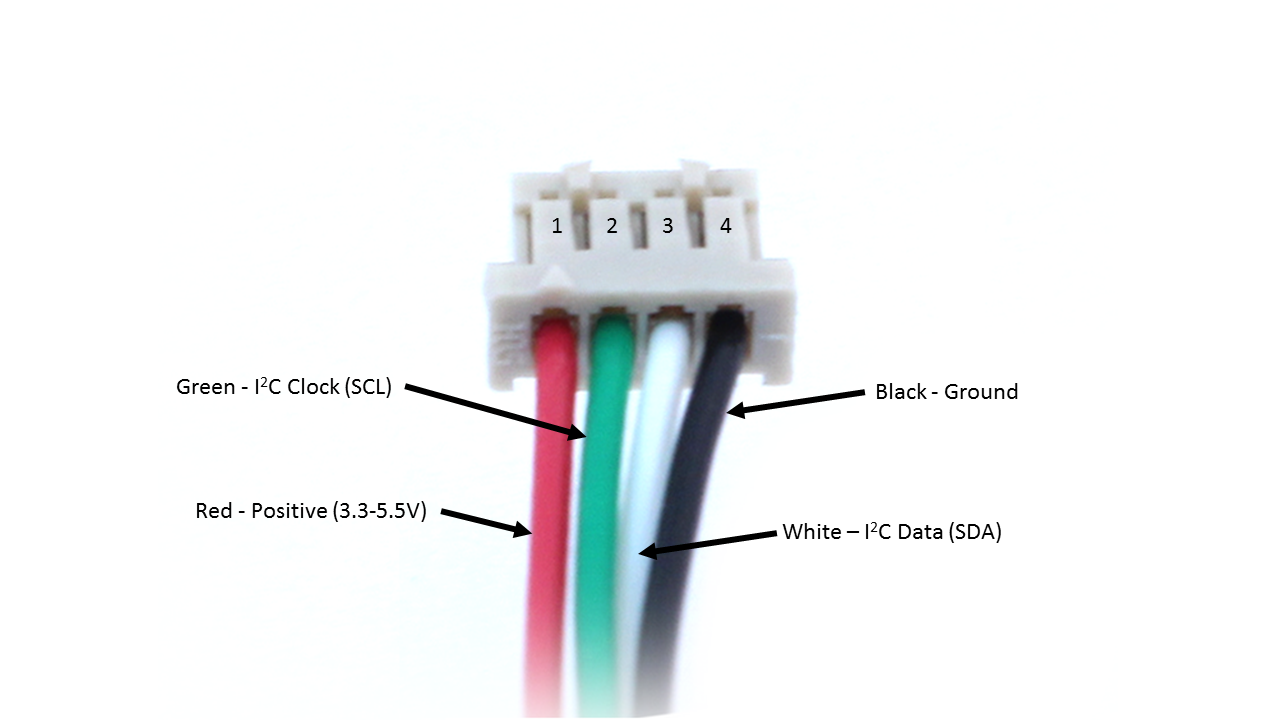
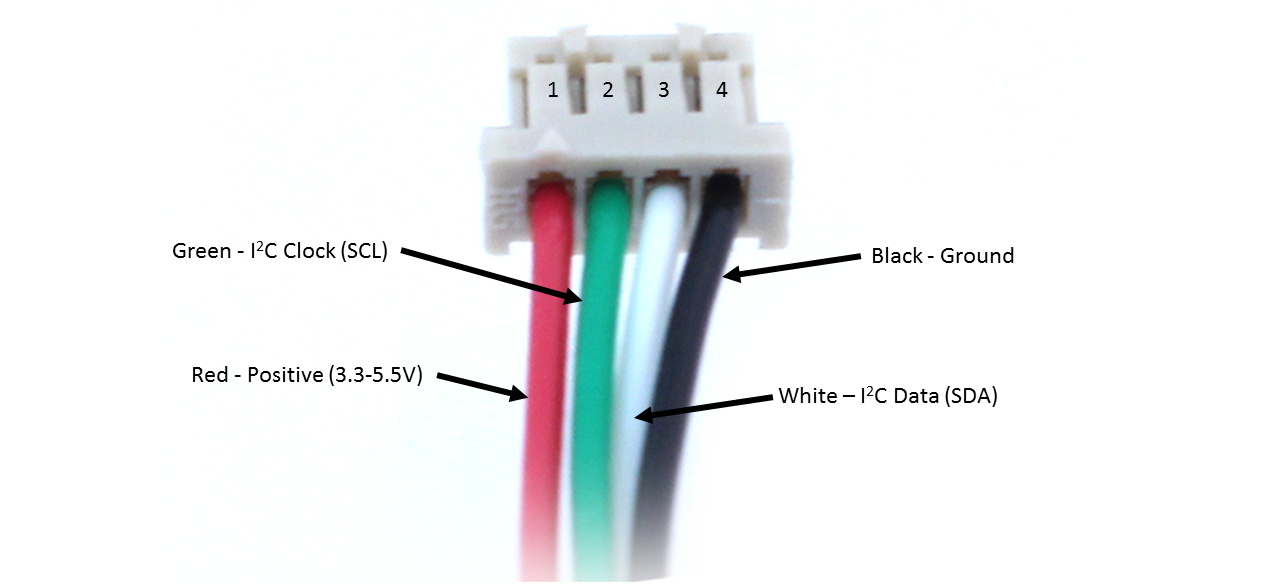
Celsius & Bar: Updates manuals before launch

Changed region(s): [[0.1223, 0.0308, 0.7947, 0.9555]]

diff --git a/bar30/index.md b/bar30/index.md
@@ -1,22 +1,22 @@
 ---
 layout: default
-title: Bar 30 Pressure Sensor Documentation
+title: Bar30 Pressure Sensor Documentation
 order: 1
 nav:
 - Introduction: introduction
 - - Quick Start: quick-start
 - Specifications: specifications
 - - Schematic: schematic
-- - 2D Drawing: d-drawing
 - - Specification Table: specification-table
 - - DF-13 Pinout: df-13-pinout
+- - 2D Drawing: d-drawing
 - - 3D Model: d-model
 - Installation: installation
 - Example Code: example-code
 - - Arduino: arduino
 
 store-links:
-- Bar30: #
+- Bar30: https://www.bluerobotics.com/store/electronics/bar30-sensor-r1/
 
 manual-links:
 - Celsius Temperature Sensor: /celsius
@@ -26,27 +26,27 @@ manual-links:
 
 #Introduction
 
-The Bar30 is a high resolution, water proof pressure and temperature sensor which comes in a Blue Robotics penetrator which provides a waterproof, high-pressure seal for your enclosure.
+The <em>Bar30</em> is a high resolution, water proof pressure and temperature sensor which comes in a Blue Robotics penetrator which provides a waterproof, high-pressure seal for your enclosure.
 
 ##Quick Start
 
 1. Download [MS5837 Arduino Library](https://github.com/bluerobotics/BlueRobotics_MS5837_Library).
 2. Install software such as the [Example Code](#example-code) to your microcontroller.
-3. Connect the DF13 or bare wires to the appropriate microcontroller pins [green-SCL, white-SDA, red-positive(2.5-5.5V), black ground]. That's it!
+3. Connect the DF13 or bare wires to the appropriate microcontroller pins, using a logic level converter if your board has 5V logic:
+  - Green: SCL (3.3V logic)
+  - White: SDA (3.3V logic)
+  - Red: +2.5-5.5V
+  - Black: Ground
 
 #Specifications
 
 ##Schematic
 
-The [EagleCAD files](https://github.com/bluerobotics/Bar30-Pressure-Sensor) for the schematic and board are available on our [GitHub page.](https://github.com/bluerobotics)
+The [EagleCAD files](https://github.com/bluerobotics/Bar30-Pressure-Sensor) for the schematic and board are available on our [GitHub page](https://github.com/bluerobotics).
 
-[<img src="/bar30/cad/BAR30-SENSOR-Schematic.png" class="img-responsive" style="max-width:300px" />](/assets/images/BAR30 Schematic.png)
+[<img src="/bar30/cad/BAR30-SENSOR-Schematic.png" class="img-responsive" style="max-width:300px" />](/bar30/cad/BAR30-SENSOR-Schematic.png)
 
 [Bar30 Schematic.png](/bar30/cad/BAR30-SENSOR-Schematic.png)
-
-##2D Drawing
-
-<img src="/assets/images/BAR30-2view.png" class="img-responsive" style="max-width:900px" />
 
 ##Specification Table
 
@@ -56,6 +56,7 @@ For further information please see the [MS5837-30BA Data Sheet.](http://meas-spe
 | ------------- | --------- |
 | **Item** | **Condition** | **Value** |
 | Supply Voltage| -- | 2.5-5.5 volts |
+| I<sup>2</sup>C Logic Voltage (SDA and SCL) | -- | 2.5 - 3.6 volts |
 | Peak Current   | -- | 1.25 mA   |
 | ------------- | --------- |
 |                **Pressure**                  		 |
@@ -78,8 +79,8 @@ For further information please see the [MS5837-30BA Data Sheet.](http://meas-spe
 |Absolute Accuracy   | From 0-10 bar at 0-60&deg;C | +/- 1.5&deg;C      |
 |                    | From 0-30 bar at -20-85&deg;C |  +/- 4.0&deg;C   |
 |  **Physical**  |
-| Wire Colors | Green - I<sup>2</sup>C Clock (SCL) |
-|             | White - I<sup>2</sup>C Data (SDA)  |
+| Wire Colors | Green - I<sup>2</sup>C Clock (SCL, 3.3V) |
+|             | White - I<sup>2</sup>C Data (SDA, 3.3V) |
 |             | Red - Positive (2.5-5.5V) |
 |             | Black - Ground          |
 | ------------|-------------------------|
@@ -89,7 +90,7 @@ For further information please see the [MS5837-30BA Data Sheet.](http://meas-spe
 | Wrench Flats | 16 mm |
 |----------------------|
 
-##DF-13 Pinout
+##DF13 Pinout
 
 | 1 &Delta; |  Red - Positive (3.3-5.5V) |
 | 2 |  Green - I<sup>2</sup>C Clock (SCL) |
@@ -97,6 +98,12 @@ For further information please see the [MS5837-30BA Data Sheet.](http://meas-spe
 | 4 |  Black - Ground          |
 
 <img src="/bar30/cad/DF-13_Pinout.png" class="img-responsive" style="max-width:900px" />
+
+**Mating Connector:** [Hirose 4-pos DF13 on Digi-Key](http://www.digikey.com/product-detail/en/DF13-4P-1.25DSA/H2193-ND/241767)
+
+##2D Drawing
+
+<img src="/assets/images/BAR30-2view.png" class="img-responsive" style="max-width:900px" />
 
 ##3D Model
 
@@ -126,11 +133,13 @@ Install the Bar30 Pressure Sensor into an endcap and tighten by hand or with a w
 
 ##Arduino
 
-This example uses the [MS5837 Library](https://github.com/bluerobotics/BlueRobotics_MS5837_Library) with the connected sensor. The example reads the sensor and prints the resulting values to the serial terminal.
+This example uses the [BlueRobotics MS5837 Library](https://github.com/bluerobotics/BlueRobotics_MS5837_Library) with the connected sensor. The example reads the sensor and prints the resulting values to the serial terminal.
+
+Please remember to use a logic level converter, such as [this one](https://www.sparkfun.com/products/12009), to convert Arduino 5V levels to 3.3V!
 
 If you've never used Arduino before, we suggest checking out [some tutorials!](https://www.arduino.cc/en/Tutorial/HomePage)
 
-You can find the [MS5837 Library](https://github.com/bluerobotics/BlueRobotics_MS5837_Library) on our [GitHub page.](https://github.com/bluerobotics)
+You can find the [MS5837 Library](https://github.com/bluerobotics/BlueRobotics_MS5837_Library) on our [GitHub page](https://github.com/bluerobotics).
 
 ~~~~~~~~~~ cpp
 #include <Wire.h>

diff --git a/celsius/index.md b/celsius/index.md
@@ -16,7 +16,7 @@ nav:
 - - Arduino: arduino
 
 store-links:
-- Celsius: #
+- Celsius: https://www.bluerobotics.com/store/electronics/celsius-sensor-r1/
 
 manual-links:
 - Bar 30 Pressure Sensor: /bar30
@@ -26,13 +26,17 @@ manual-links:
 
 #Introduction
 
-The Celsius Temperature Sensor is a high-accuracy, fast time-response subsea temperature sensor with I2C interface. It is sealed in a high-pressure bulkhead compatible with the Blue Robotics watertight enclosures or any 10mm hole.
+The Celsius Temperature Sensor is a high-accuracy, fast-response subsea temperature sensor with I<sup>2</sup>C interface. It is sealed in a high-pressure bulkhead compatible with the Blue Robotics watertight enclosures or any 10mm hole.
 
 ##Quick Start
 
 1. Download [TSYS01 Arduino Library](https://github.com/bluerobotics/BlueRobotics_TSYS01_Library).
 2. Install software such as the [Example Code](#example-code) to your microcontroller.
-3. Connect the DF13 or bare wires to the appropriate microcontroller pins (green: SCL, white: SDA, red: +3.3-5.5V, black: ground). That's it!
+3. Connect the DF13 or bare wires to the appropriate microcontroller pins, using a logic level converter if your board has 5V logic:
+  - Green: SCL (3.3V logic)
+  - White: SDA (3.3V logic)
+  - Red: +2.5-5.5V
+  - Black: Ground
 
 #Specifications
 
@@ -50,7 +54,7 @@ The [EagleCAD files](https://github.com/bluerobotics/Celsius-Temperature-Sensor)
 
 ##Specification Table
 
-For further information please see the [TSYS01 Data Sheet.](http://meas-spec.com/downloads/TSYS01_Digital_Temperature_Sensor.pdf)
+For further information please see the [TSYS01 Data Sheet](http://meas-spec.com/downloads/TSYS01_Digital_Temperature_Sensor.pdf).
 
 |      **Electrical**       |
 | ------------- | --------- |
@@ -68,8 +72,8 @@ For further information please see the [TSYS01 Data Sheet.](http://meas-spec.com
 |Absolute Accuracy   | From -5 to 50&deg;C | +/- 0.1&deg;C      |
 |                    | From -40 to 125&deg;C |  +/- 0.5&deg;C   |
 |  **Physical**  |
-| Wire Colors | Green - I<sup>2</sup>C Clock (SCL) |
-|             | White - I<sup>2</sup>C Data (SDA)  |
+| Wire Colors | Green - I<sup>2</sup>C Clock (SCL, 3.3V) |
+|             | White - I<sup>2</sup>C Data (SDA, 3.3V)  |
 |             | Red - Positive (3.3-5.5V) |
 |             | Black - Ground          |
 | ------------|-------------------------|
@@ -119,9 +123,11 @@ Install the Celsius Temperature Sensor into an endcap and tighten by hand or wit
 
 This example uses the [TSYS01 Arduino Library](https://github.com/bluerobotics/TSYS01) with the connected sensor. The example reads the sensor and prints the resulting values to the serial terminal.
 
-If you've never used Arduino before, we suggest checking out [some tutorials!](https://www.arduino.cc/en/Tutorial/HomePage)
+Please remember to use a logic level converter, such as [this one](https://www.sparkfun.com/products/12009), to convert Arduino 5V levels to 3.3V!
 
-You can find the [TSYS01 Arduino Library](https://github.com/bluerobotics/TSYS01) on our [GitHub page.](https://github.com/bluerobotics)
+If you've never used Arduino before, we suggest checking out [some tutorials](https://www.arduino.cc/en/Tutorial/HomePage)!
+
+You can find the [TSYS01 Arduino Library](https://github.com/bluerobotics/TSYS01) on our [GitHub page](https://github.com/bluerobotics).
 
 ~~~~~~~~~~ 
 
